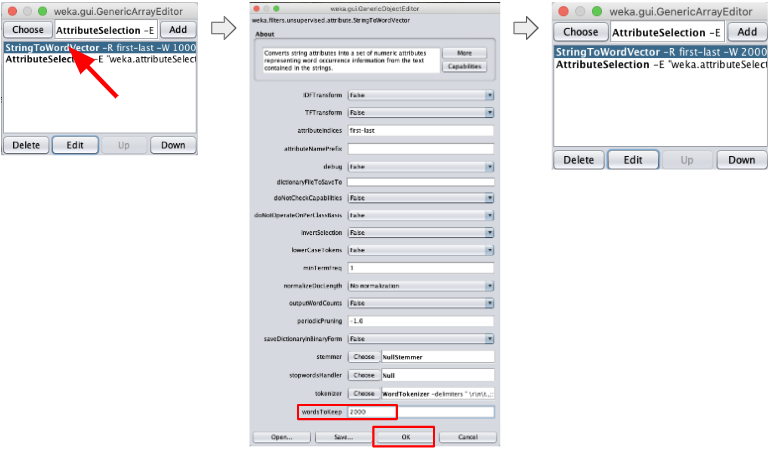
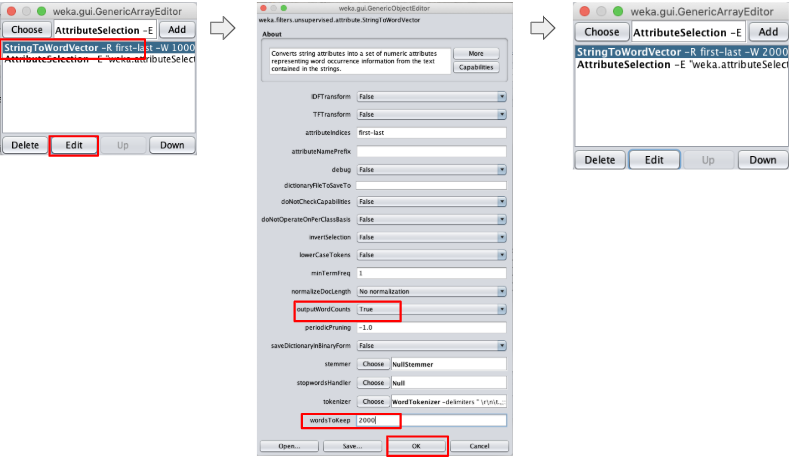
Fix results for attribute classification

Changed region(s): [[0.0, 0.0, 0.9974, 0.9956]]

diff --git a/assignment2/README.md b/assignment2/README.md
@@ -363,7 +363,7 @@ we will keep using 2000 words.
 
 #### Selecting attributes
 
-Out of all 2,000 attributes (words in the documents) we now have selected, some
+Out of all 2000 attributes (words in the documents) we now have selected, some
 carry more information than others, i.e. they are more predictive than others.
 
 We will use Weka's attribute selection feature to find these attributes and use
@@ -377,12 +377,13 @@ First we change the current filter to `MultiFilter`.
 
 ![Add MultiFilter](./pics/multifilter-add.png)
 
-Now we add the filters, in the order we need them to be executed. `MultiFilter`
-shows a `AllFilter` by default. We do not need it, so let's delete it.
+`MultiFilter` shows a `AllFilter` by default. We do not need it. Let's delete
+it.
 
 ![Delete AllFilter](./pics/multifilter-delete-allfilter.png)
 
-The first filter we need is the `StringToWordVector` to tokenize the document.
+Now we add the filters, in the order we need them to be executed. The first
+filter we need is the `StringToWordVector` to tokenize the document.
 
 ![Add StringToWordVector](./pics/multifilter-add-stringtowordvector.png)
 
@@ -390,9 +391,9 @@ After tokenization we add `AttributeSelection`.
 
 ![Add AttributeSelection](./pics/multifilter-add-attributeselection.png)
 
-The final step is to change `StringToWordVector` to keep 2,000 words, as we
-did in the previous steps, then close the multifilter window by pressing on
-its X button (it doesn't have an `OK` or `Close`button).
+The final step is to change `StringToWordVector` to keep use word counts and
+to keep 2000 words, as we did in the previous steps, then close the multifilter
+window by pressing on its X button (it doesn't have an `OK` or `Close`button).
 
 ![Configure StringToWordVector](./pics/multifilter-configure-stringtowordvector.png)
 
@@ -403,25 +404,22 @@ With the multifilter in place we can run the classifer again.
 This time it will take considerably longer because of the extra step to perform
 attribute selection.
 
-It results in better accuracy:
+It results in significantly better accuracy:
 
-    Correctly Classified Instances        2351               83.8744 %
-    Incorrectly Classified Instances       452               16.1256 %
+    Correctly Classified Instances        2392               85.3371 %
+    Incorrectly Classified Instances       411               14.6629 %
 
-But inspecting the confusion matrix shows that the accuracy improvement is a
-result of significantly improving the `faculty` class, while making all other
-classes worse (the `student` and `project` classes by a large margin).
-
-A comparison of the classifier with 2,000 words with and without attribute
-selection.
+Inspecting the confusion matrix shows that the accuracy improvement is a
+result of a large improvment for the `faculty` class, while making all other
+classes slightly worse.
 
 This is the confusion matrix with attribute selection (what we just did):
 
        a   b   c   d   <-- classified as
-     948  35  87  27 |   a = type_student
-      32 574   4  10 |   b = type_course
-      91  17 602  40 |   c = type_faculty
-      97   8  57 174 |   d = type_project
+     972  19  68  38 |   a = type_student
+      36 567  11   6 |   b = type_course
+      78  12 627  33 |   c = type_faculty
+      62   5  43 226 |   d = type_project
 
 And this is the one from the section above:
 
@@ -431,22 +429,10 @@ And this is the one from the section above:
      165  10 506  69 |   c = type_faculty
       46   7  37 246 |   d = type_project
 
-Since attribute selection did not improve the overall accuracy by a large
-margin and at the same time made several classes worse off, we will use only
-`StringToWordVector` with 2,000 words as our best filter for the classifier.
+Given the overall accuracy improvement, without affecting the other class by
+a large margin, we will use this test as our final classifier.
 
-Remove attribute selection by changing the `filter` value back to
-`StringToWordVector`, set `outputWordCounts` to true and set `wordsToKeep`
-to 2000.
-
-![Remove multifilter](./pics/multifilter-remove.png)
-
-Run the classifier again to check if we are back to where we want it be.
-
-![Naive Bayes start](./pics/meta-classifier-start.png)
-
-We should see the accuracy and confusion table from the [section where we first
-changed to 2000 words to keep](#choosing-words-to-keep).
+The next step is to check the peformance in unseen data, using the test dataset.
 
 ### Verifying the naive Bayes classifier on the test set
 
